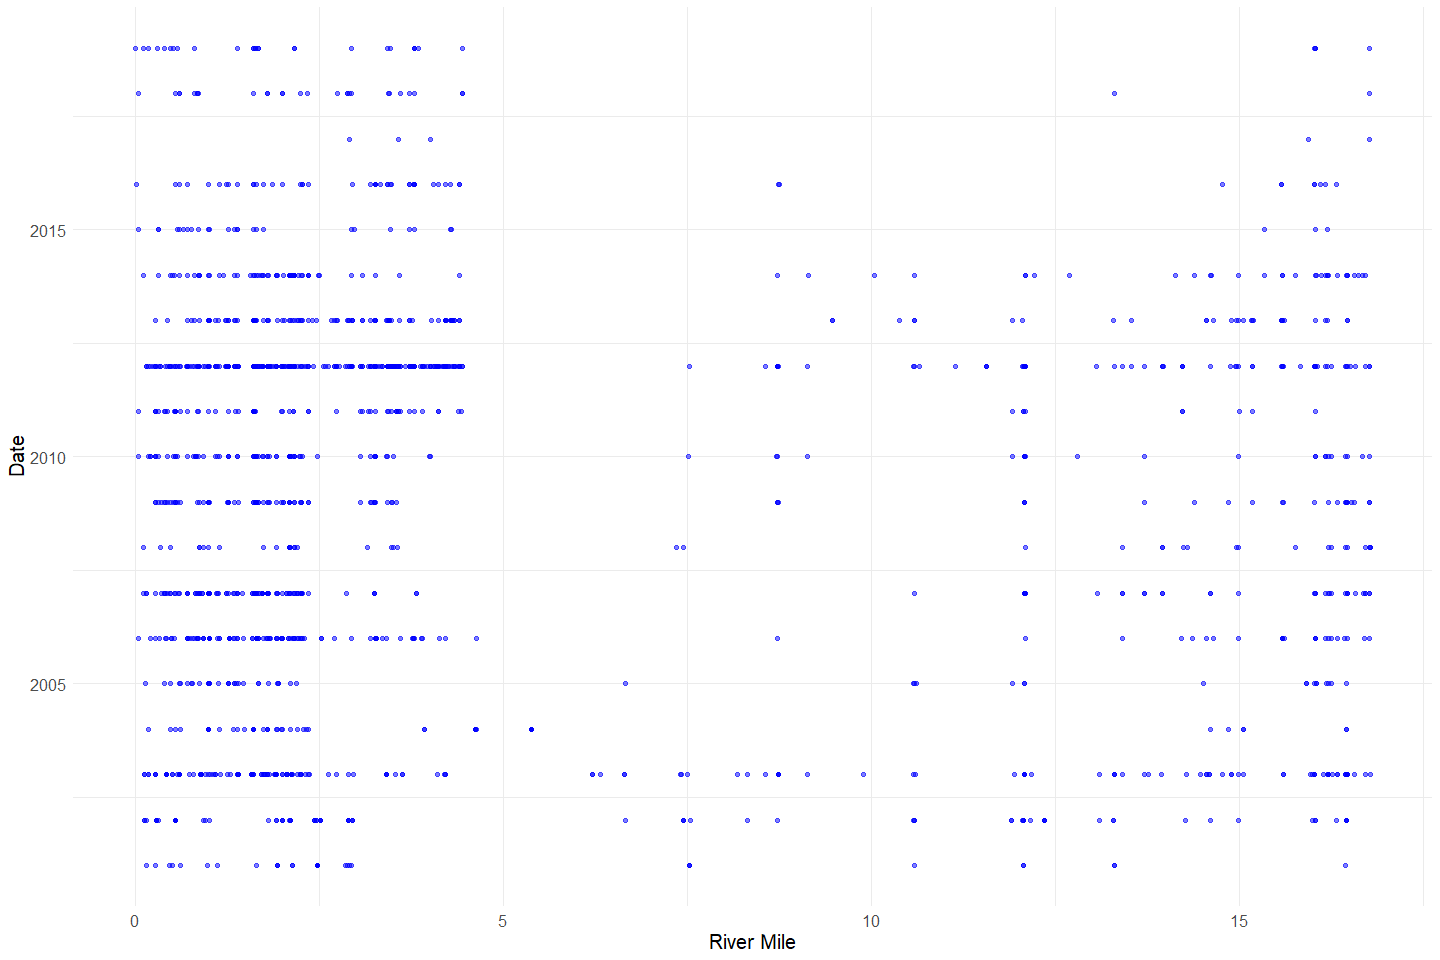
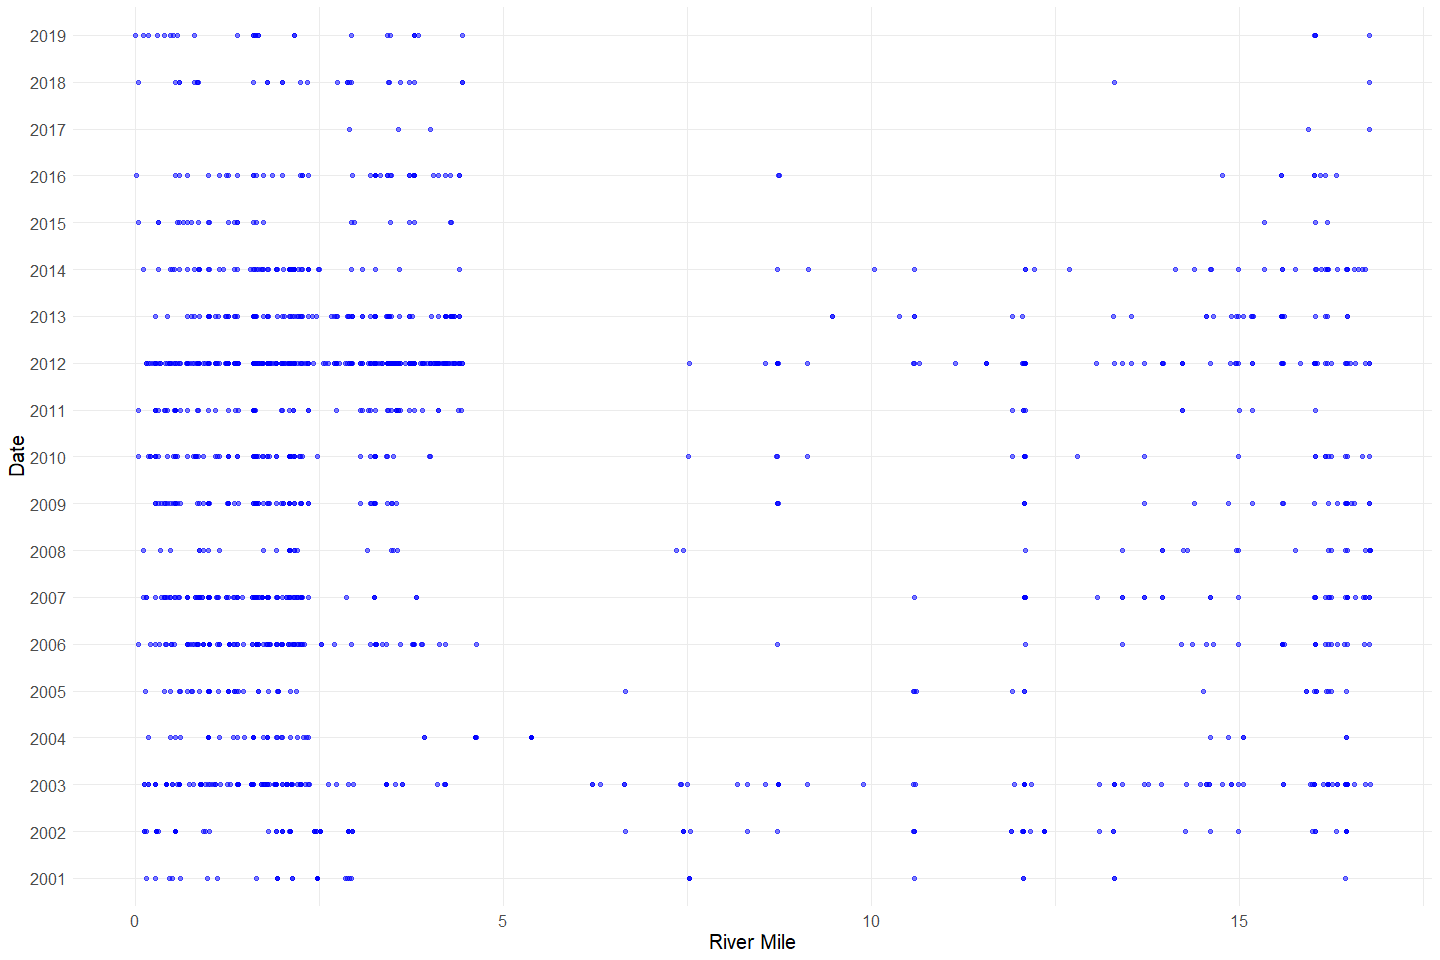
edits redd data based on pr comments

diff --git a/scripts/adult-holding-redd-and-carcass-surveys/battle/battle_creek_redd_qc.md b/scripts/adult-holding-redd-and-carcass-surveys/battle/battle_creek_redd_qc.md
@@ -7,14 +7,14 @@ Erin Cain
 
 ## Description of Monitoring Data
 
-These data were aquired via snorkel and kayak surveys on Battle Creek
+These data were acquired via snorkel and kayak surveys on Battle Creek
 from 2001 to 2019. Red location, size, substrate and flow were measured.
 Annual monitoring questions and conditions drove the frequency and
 detail of individual redd measurements.
 
 **Timeframe:** 2001 - 2019
 
-**Survey Season:**
+**Survey Season:** September - October
 
 **Completeness of Record throughout timeframe:** Sampled each year
 
@@ -199,7 +199,7 @@ All values look within an expected range
 
 ``` r
 cleaner_redd_data %>% 
-  ggplot(aes(x = river_mile, y = year(date))) +
+  ggplot(aes(x = river_mile, y =as.factor(year(date)))) +
   geom_point(size = 1.4, alpha = .5, color = "blue") + 
   labs(x = "River Mile", 
        y = "Date") +
@@ -240,6 +240,8 @@ summary(cleaner_redd_data$river_mile)
 
 ### Variable: `pre_redd_depth`
 
+pre redd depth - depth measurement before redd was created
+
 **Plotting distribution of pre redd depth**
 
 ``` r
@@ -278,7 +280,7 @@ summary(cleaner_redd_data$pre_redd_depth)
 cleaner_redd_data %>% 
   ggplot(aes(x = redd_pit_depth)) +
   geom_histogram() +
-  labs(x = "River Pitt Depth", 
+  labs(x = "River Pit Depth", 
        y = "Count") +
   theme_minimal() + 
   theme(text = element_text(size = 15)) 
@@ -492,9 +494,7 @@ summary(cleaner_redd_data$start_number_flow_meter_80)
 
 -   65.7 % of values in the `start_number_flow_meter` column are NA.
 -   91 % of values in the `start_number_flow_meter_80` column are NA.
--   There are a lot of 0 values. Could these be NA? TODO Add in start,
-    end, time, start\_80, end\_80, time\_80, see if I can fix format of
-    them first
+-   There are a lot of 0 values. Could these be NA?
 
 ### Variables: `end_number_flow_meter`, `end_number_flow_meter_80`
 
@@ -551,6 +551,9 @@ summary(cleaner_redd_data$end_number_flow_meter_80)
 
 ### Variables: `flow_meter_time`, `flow_meter_time_80`
 
+Start number for flow bomb at 80% depth; 80% depth was measured when the
+redd was &gt;22" deep
+
 **Plotting distribution of flow meter end number per second**
 
 ``` r
@@ -600,7 +603,6 @@ summary(cleaner_redd_data$flow_meter_time_80)
 
 -   65.7 % of values in the `flow_meter_time` column are NA.
 -   91 % of values in the `flow_meter_time_80` column are NA.
--   There are a lot of 0 values. Could these be NA?
 
 ## Explore Categorical variables:
 
@@ -888,6 +890,8 @@ unique(cleaner_redd_data$comments)[1:10]
 -   there are a lot of zero values for the physical characteristics of
     redds, I need to figure out if these are not measured values or are
     actually zero
+-   Need to make sure to standardize all units (chose metric units that
+    we want to use) this one has redd measures in Inches
 
 ## Save cleaned data back to google cloud
 
